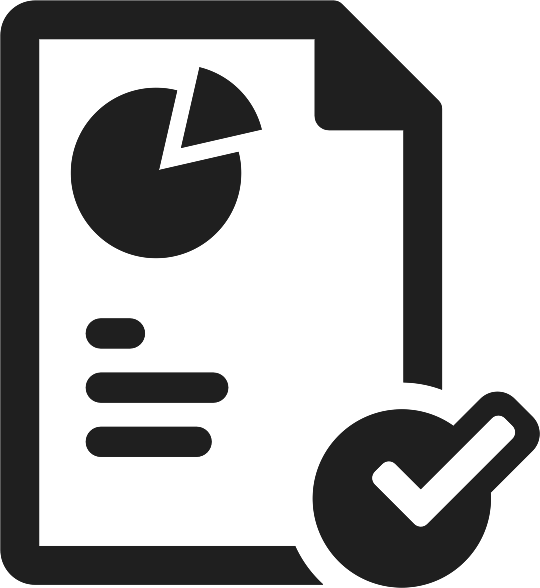
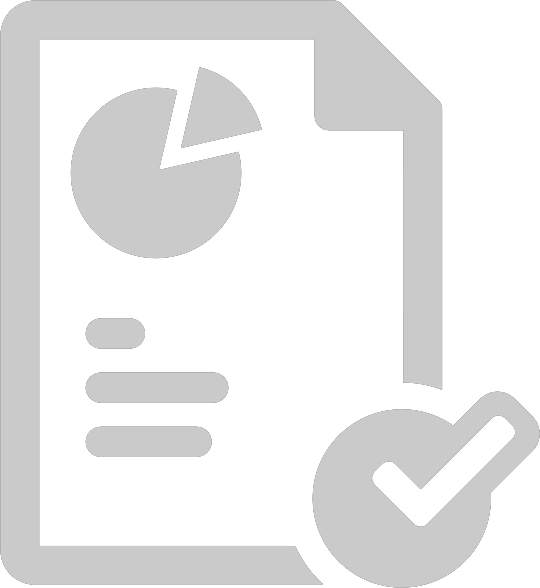
c

diff --git a/data-back/index.css b/data-back/index.css
@@ -3,10 +3,10 @@ body { margin:0; font-family:microsoft yahei;}
 ul, li, p, h3, img { margin:0; padding:0; list-style:none;}
 header { height:60px; background-color:#2189C0; overflow:hidden;}
 header>img { width:40px; height:40px; float:left; margin-top:10px; margin-left:40px;}
-.login-btn { display:inline-block; height:30px; line-height:30px; font-size:12px; color:#fff; float:right; margin-right:15px; margin-top:15px; padding-left:30px; background:url(images/user.png) no-repeat; background-size:20px 20px; background-position:5px 5px; cursor:pointer; margin-right:40px;}
+.login-btn { display:inline-block; height:30px; line-height:30px; font-size:12px; color:#fff; float:right; margin-right:15px; margin-top:15px; padding-left:26px; background:url(images/user.png) no-repeat; background-size:16px 16px; background-position:5px 7px; cursor:pointer; margin-right:40px;}
 .input-box { width:300px; height:30px; float:right; margin-top:15px; margin-right:20px; position:relative;}
-#serach { width:100%; height:100%; border:none; background-color:#fff; border-radius:15px; padding-left:50px; box-sizing:border-box; font-size:12px; color:#666;}
-.input-box>img { width:20px; height:20px; position:absolute; left:20px; top:5px;}
+#serach { width:100%; height:100%; border:none; background-color:#fff; border-radius:5px; padding-left:40px; box-sizing:border-box; font-size:12px; color:#666;}
+.input-box>img { width:20px; height:20px; position:absolute; left:10px; top:5px;}
 
 main { overflow:hidden;}
 .nav-box { width:260px; background-color:#2B2E3D; float:left; min-height:1000px;}
@@ -14,18 +14,18 @@ main { overflow:hidden;}
 .username-box { height:100px;}
 .username-box>img { width:50px; height:50px; border-radius:25px; float:left; margin-left:40px; margin-top:25px;}
 .username-box>p { height:30px; line-height:30px; font-size:16px; color:#fff; margin-left:105px; padding-top:35px;}
-.fans-box { width:180px; overflow:hidden; margin-left:25px; margin-bottom:20px;}
-.fans-box>p { width:50%; line-height:18px; float:left; font-size:12px; color:#4E5A6A; text-align:center;}
+.fans-box { width:180px; overflow:hidden; margin-left:25px; margin-bottom:40px;}
+.fans-box>p { width:50%; line-height:18px; float:left; font-size:12px; color:#ddd; text-align:center;}
 .fans-box>p:first-child { border-right:solid #4E5A6A 1px; box-sizing:border-box;}
-.nav-box>ul>li>p { width:220px; line-height:40px; font-size:12px; color:#4E5A6A; padding-left:35px; box-sizing:border-box; background:url(images/report.png) no-repeat; background-size:15px 16px; background-position:10px 12px; margin-left:40px;}
+.nav-box>ul>li>p { width:220px; line-height:40px; font-size:12px; color:#ddd; padding-left:35px; box-sizing:border-box; background:url(images/report.png) no-repeat; background-size:15px 16px; background-position:10px 12px; margin-left:40px;}
 
 .path { line-height:30px; font-size:14px; color:#999; background-color:#fff; padding-left:40px;}
 .word { color:#2189C0;}
-.search-box { width:900px; background-color:#fff; border:solid #ccc 1px; box-sizing:border-box; overflow:hidden; margin-left:40px; margin-top:15px; padding:11px 0px;}
+.search-box { width:900px; background-color:#fff; border:solid #ccc 1px; box-sizing:border-box; overflow:hidden; margin-left:40px; margin-top:20px; padding:21px 0px;}
 .search-form-box { width:670px; float:left; margin-left:30px;}
 .search-form-box>div { overflow:hidden;}
 .search-form-box>div>div { line-height:26px; font-size:12px; color:#999999; float:left; overflow:hidden;}
-.search-form-box select, .search-form-box input { height:26px; font-size:12px; color:#333333; padding-left:10px; box-sizing:border-box; border:solid #ccc 1px; outline:none; float:right;}
+.search-form-box select, .search-form-box input { height:26px; font-size:12px; color:#333333; padding-left:10px; box-sizing:border-box; border:solid #ddd 1px; outline:none; float:right;}
 #project, #time, #count { width:70px;}
 #buy, #date, #sale, #done-project { width:120px;}
 .top-form-box>div:first-child { width:120px;}
@@ -35,8 +35,8 @@ main { overflow:hidden;}
 .bottom-form-box>div:first-child { width:180px; margin-left:150px;}
 .bottom-form-box>div:nth-child(2) { width:120px; margin-left:30px;}
 .bottom-form-box>div:last-child { width:180px; margin-left:10px;}
-.search-btn { width:50px; height:26px; line-height:26px; font-size:12px; color:#fff; text-align:center; background-color:#388BC1; border-radius:2px; float:left; margin-left:30px; margin-top:16px; cursor:pointer;}
-.time-box { width:900px; overflow:hidden; margin-top:10px; height:60px; margin-left:40px;}
+.search-btn { width:70px; height:26px; line-height:26px; font-size:12px; color:#fff; text-align:center; background-color:#388BC1; border-radius:2px; float:left; margin-left:30px; margin-top:16px; cursor:pointer;}
+.time-box { width:900px; overflow:hidden; margin-top:20px; height:60px; margin-left:40px;}
 .time-box>img { width:10px; height:15px; padding:22.5px 10px; background-color:#fff; float:left; cursor:pointer;}
 .list-box { width:702px; float:left; height:100%; overflow:hidden;}
 .history-search-btn { width:132px; height:100%; margin-left:6px; float:left; background:url(images/date.png) no-repeat; background-size:30px 30px; background-position:20px 15px; padding-left:60px; box-sizing:border-box; line-height:60px; font-size:14px; color:#333; background-color:#fff; cursor:pointer;}
@@ -60,9 +60,9 @@ main { overflow:hidden;}
 .data-box>ul>li:nth-child(2) div { background-color:#388BC1;}
 .data-box>ul>li:nth-child(3) div { background-color:#CF4B36;}
 .data-box>ul>li:last-child div { background-color:#E1CD46;}
-.project-box { width:900px; height:360px; margin-top:10px; margin-left:40px; overflow:hidden;}
-.left-box { width:530px; height:100%; float:left; background-color:#fff; border:solid #ccc 1px; border-radius:5px; box-sizing:border-box; position:relative;}
-.left-box>p, .right-box>p { line-height:40px; font-size:12px; color:#999; padding-left:20px; background-color:#F4F5F7; border-top-left-radius:5px; border-top-right-radius:5px;}
+.project-box { width:900px; height:360px; margin-top:20px; margin-left:40px; overflow:hidden;}
+.left-box { width:530px; height:100%; float:left; background-color:#fff; border:solid #ccc 1px; border-radius:1px; box-sizing:border-box; position:relative;}
+.left-box>p, .right-box>p { line-height:40px; font-size:12px; color:#999; padding-left:20px; background-color:#F4F5F7; border-top-left-radius:1px; border-top-right-radius:1px;}
 .table-box { width:490px; height:250px; border:solid #ccc 1px; box-sizing:border-box; margin:40px 20px 20px 20px;}
 .table-box table { font-size:14px; color:#333; margin:auto; margin-top:30px; border-collapse:collapse;}
 .table-box table td { padding:5px 15px; border:solid #ccc 1px;}
@@ -72,4 +72,4 @@ main { overflow:hidden;}
 .left-box>ul>li>div { width:100%; height:1px; background-color:#ccc;}
 .project-on, .left-box>ul>li:hover { border:solid #ccc 1px; border-bottom:none; background-color:#fff !important;}
 .project-on>div, .left-box>ul>li:hover>div { background-color:#fff;}
-.right-box { width:360px; height:100%; background-color:#fff; border-radius:5px; float:left; margin-left:10px; border:solid #ccc 1px; box-sizing:border-box;}
+.right-box { width:360px; height:100%; background-color:#fff; border-radius:1px; float:left; margin-left:10px; border:solid #ccc 1px; box-sizing:border-box;}
